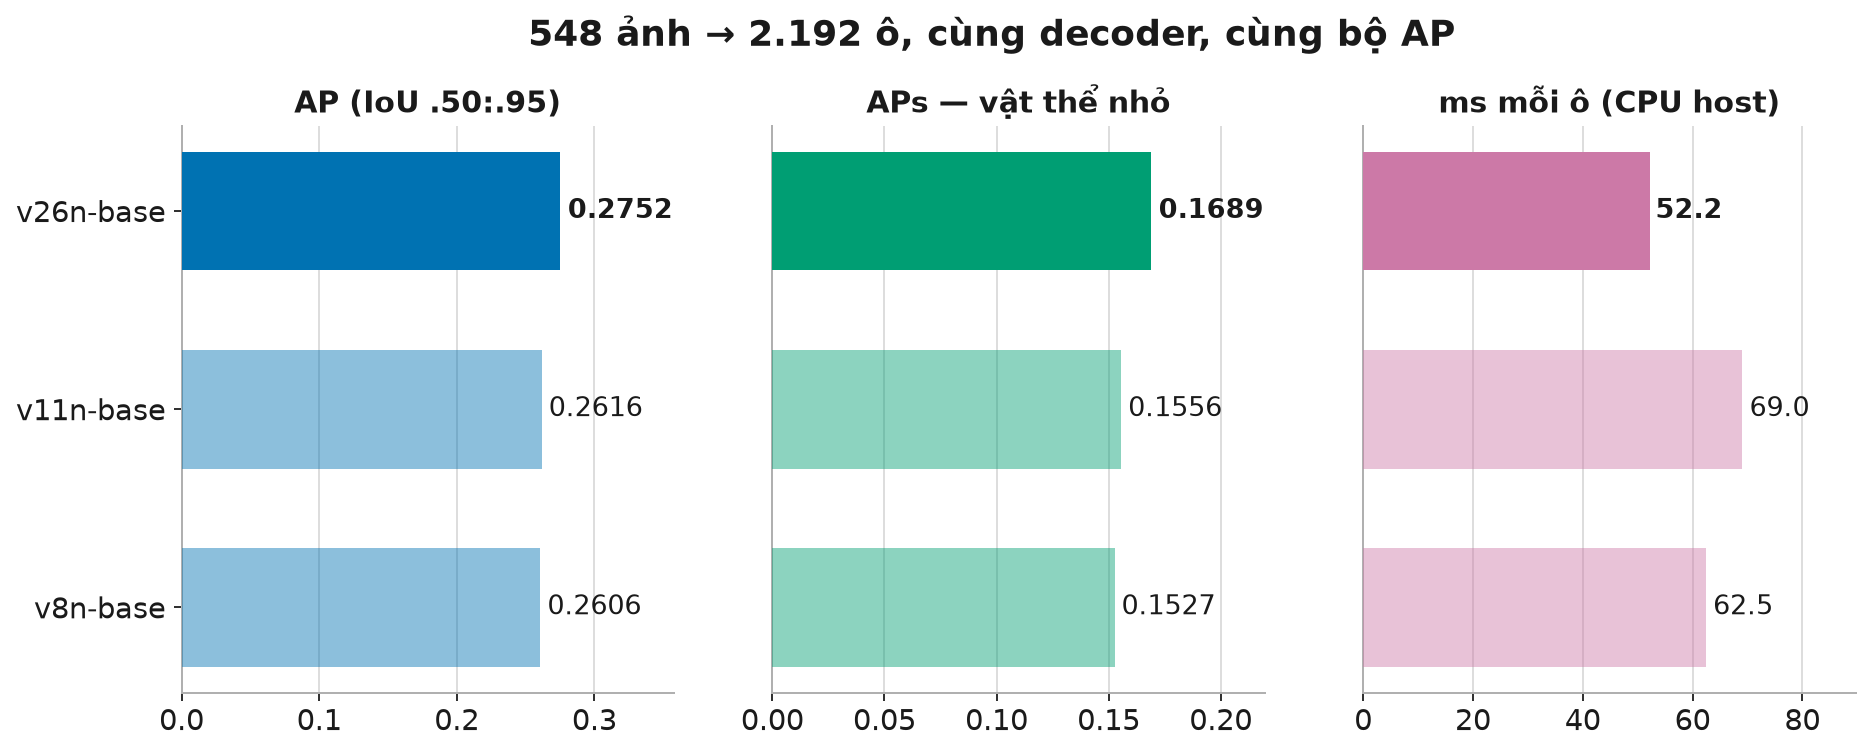
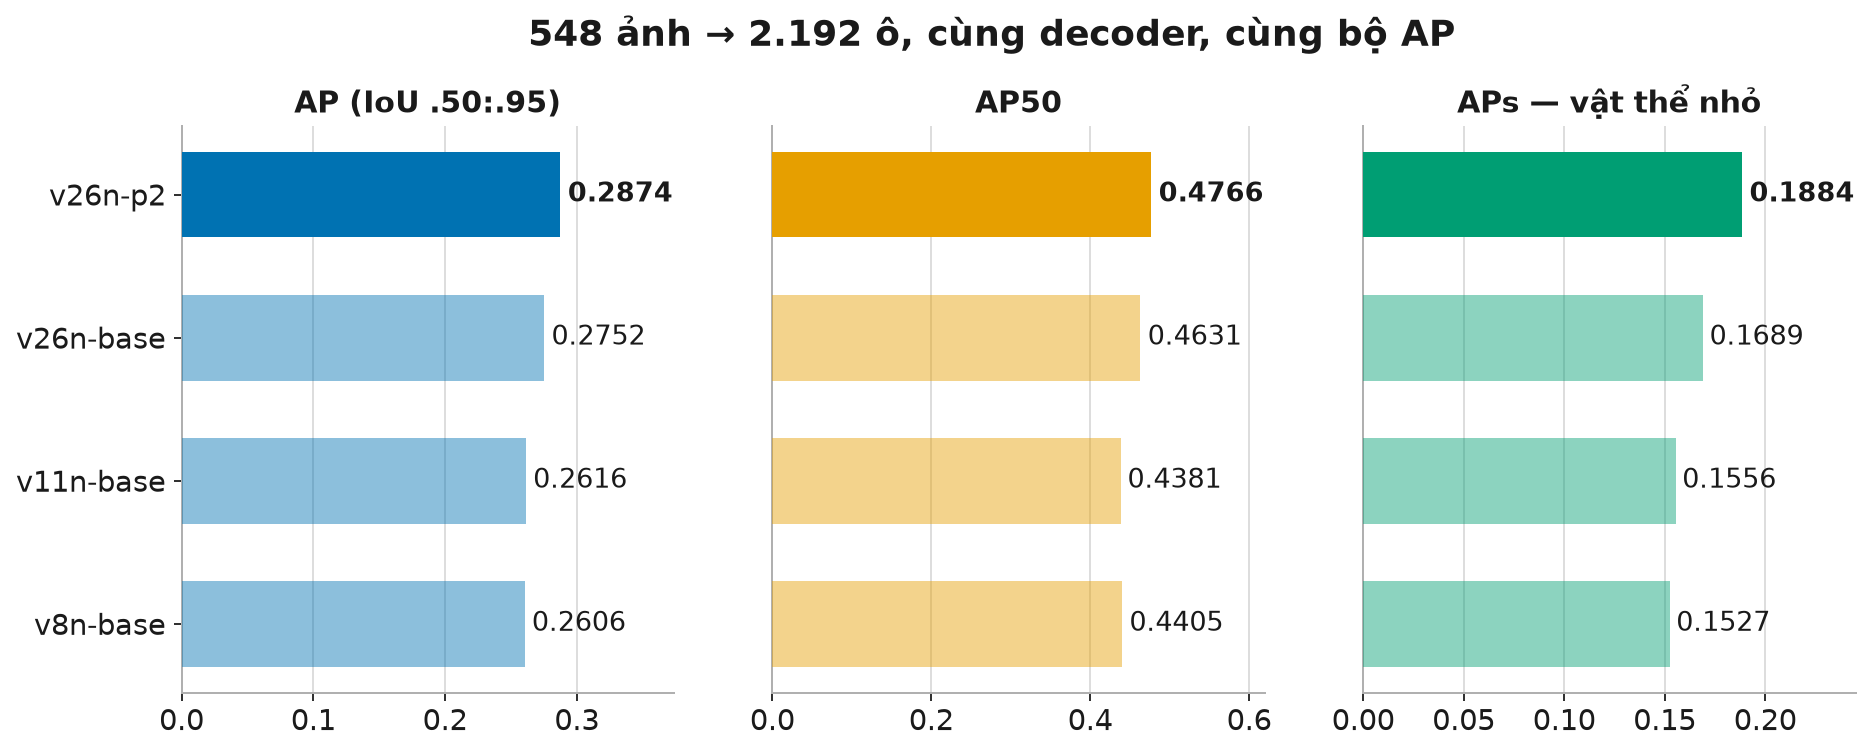
Four-way accuracy comparison: p2 wins every column, widest on small objects
548 val images -> 2192 tiles, one decoder, one AP implementation, ignore
regions cut per tile.

  model         AP      AP50    AP75    APs     APm
  v26n-p2     0.2874  0.4766  0.2925  0.1884  0.3750
  v26n-base   0.2752  0.4631  0.2763  0.1689  0.3713
  v11n-base   0.2616  0.4381  0.2627  0.1556  0.3667
  v8n-base    0.2606  0.4405  0.2597  0.1527  0.3702

p2's margin is largest exactly where its stride-4 branch predicts: +23.4% APs
against +10.3% AP overall. A result that lands on the metric the mechanism
points at is worth more than one that lands everywhere.

Host ms/tile is dropped from the table. It is still in the CSV, but it moved
25% between two runs of the same model on the same machine (v26n-base 52.2 ->
39.1), so it cannot carry a latency claim. The new trade-off figure therefore
puts locally-measured AP on one axis and AI Hub's QCS8550 w8a16 latency on the
other, and says so in the caption.

The decision the table actually poses: p2 buys +10.3% AP and +23.4% APs for
2.1x the NPU time (8.531 vs 3.984 ms). Nothing here says which side of that is
right -- that depends on the frame rate the aircraft needs, which is §6.

diff --git a/4-bench/make_figures.py b/4-bench/make_figures.py
@@ -185,25 +185,26 @@ def fig_e2e_matrix(root, out):
 # --------------------------------------------------------------------------- #
 def fig_models(root, out):
     """Three architectures on one tiled split, one decoder, one AP code."""
-    rs = rows(os.path.join(root, "results", "tiled_val_full.csv"))
+    rs = rows(os.path.join(root, "results", "tiled_val_4models.csv"))
     name = {"v26n-base-encoder-md500.onnx": "v26n-base",
             "v11n-base-encoder.onnx": "v11n-base",
-            "v8n-base-encoder.onnx": "v8n-base"}
+            "v8n-base-encoder.onnx": "v8n-base",
+            "v26n-p2-encoder.onnx": "v26n-p2"}
     rs = sorted(rs, key=lambda r: -num(r["AP"]))
     labels = [name.get(r["model"], r["model"]) for r in rs]
 
     fig, axes = plt.subplots(1, 3, figsize=(13.5, 4.6))
     specs = [("AP", "AP (IoU .50:.95)", BLUE),
-             ("APs", "APs — vật thể nhỏ", GREEN),
-             ("ms_per_tile", "ms mỗi ô (CPU host)", PURPLE)]
+             ("AP50", "AP50", ORANGE),
+             ("APs", "APs — vật thể nhỏ", GREEN)]
     for k, (ax, (key, title, col)) in enumerate(zip(axes, specs)):
         vals = [num(r[key]) for r in rs]
         bars = ax.barh(labels[::-1], vals[::-1], color=col, height=.6, zorder=3)
-        best = max(vals) if key != "ms_per_tile" else min(vals)
+        best = max(vals)
         for b, v in zip(bars, vals[::-1]):
             b.set_alpha(1.0 if v == best else .45)
             ax.text(v * 1.02, b.get_y() + b.get_height() / 2,
-                    f"{v:.4f}" if key != "ms_per_tile" else f"{v:.1f}",
+                    f"{v:.4f}",
                     va="center", fontsize=12,
                     fontweight="bold" if v == best else "normal")
         ax.set_title(title, fontsize=13.5)
@@ -302,6 +303,62 @@ def fig_power(root, out):
 
 
 # --------------------------------------------------------------------------- #
+def fig_tradeoff(root, out):
+    """Accuracy against NPU latency, which is the decision the project has to make.
+
+    Both axes come from different machines on purpose: AP is measured here on
+    one tiled split, latency is measured on QCS8550. The host ms/tile column
+    exists in the AP csv and is *not* used -- it moved 25% between runs of the
+    same model, so it cannot carry a latency claim.
+    """
+    nm = {"v26n-p2-encoder.onnx": "v26n-p2",
+          "v26n-base-encoder-md500.onnx": "v26n-base",
+          "v11n-base-encoder.onnx": "v11n-base",
+          "v8n-base-encoder.onnx": "v8n-base"}
+    # w8a16, the only precision that survives on every model (docs/results)
+    lat = {"v8n-base": 3.984, "v11n-base": 4.710,
+           "v26n-base": 4.935, "v26n-p2": 8.531}
+    rs = rows(os.path.join(root, "results", "tiled_val_4models.csv"))
+
+    fig, (a1, a2) = plt.subplots(1, 2, figsize=(13.2, 5.2))
+    cols = {"v8n-base": BLUE, "v11n-base": ORANGE,
+            "v26n-base": GREEN, "v26n-p2": PURPLE}
+    for ax, key, title in ((a1, "AP", "AP (IoU .50:.95)"),
+                           (a2, "APs", "APs — vật thể nhỏ")):
+        for r in rs:
+            n = nm.get(r["model"], r["model"])
+            x, y = lat[n], num(r[key])
+            ax.scatter(x, y, s=260, color=cols[n], zorder=3,
+                       edgecolor="white", linewidth=2)
+            # v8n va v11n gan nhau ca hai truc, nhan mac dinh se de len nhau
+            dx, dy, ha = (0, 16, "center")
+            if n == "v8n-base":
+                dx, dy, ha = (-14, -4, "right")
+            elif n == "v11n-base":
+                dx, dy, ha = (14, -4, "left")
+            ax.annotate(n, (x, y), xytext=(dx, dy), textcoords="offset points",
+                        ha=ha, va="center" if dy < 8 else "bottom",
+                        fontsize=12, fontweight="bold")
+        ys = [num(r[key]) for r in rs]
+        pad = (max(ys) - min(ys)) * .45 or .01
+        ax.set_ylim(min(ys) - pad, max(ys) + pad * 1.5)
+        ax.set_xlim(2.4, 9.8)
+        ax.set_xlabel("Latency NPU w8a16 (ms/ô)")
+        ax.set_title(title, fontsize=14)
+
+    a1.set_ylabel("AP")
+    fig.suptitle("Đánh đổi: p2 chính xác nhất, và chậm nhất 2.1×",
+                 fontsize=16, fontweight="bold", y=1.0)
+    fig.text(0.5, -0.03, "Trục dọc đo tại chỗ trên 2.192 ô; trục ngang đo trên "
+             "QCS8550 qua AI Hub. Cột ms/ô trên host bị bỏ đi vì nó lệch 25% "
+             "giữa hai lần chạy cùng một model.",
+             ha="center", fontsize=11, color=GREY)
+    p = os.path.join(out, "fig_tradeoff.png")
+    fig.savefig(p); plt.close(fig)
+    return p
+
+
+# --------------------------------------------------------------------------- #
 def fig_budget(root, out):
     """Where a frame's time actually goes once the board is included.
 
@@ -357,7 +414,7 @@ def main() -> int:
     os.makedirs(out, exist_ok=True)
 
     for fn in (fig_quant_trap, fig_e2e_matrix, fig_models, fig_tiling,
-               fig_power, fig_budget):
+               fig_power, fig_budget, fig_tradeoff):
         try:
             p = fn(args.root, out)
             print(f"[ok] {os.path.relpath(p, args.root)}"

diff --git a/docs/EDGE_BENCHMARK.md b/docs/EDGE_BENCHMARK.md
@@ -46,21 +46,30 @@ twice here, so every model was re-scored locally on one tiled split.
 548 val images → 2 192 tiles (2×2, 20% overlap), conf 0.001, IoU 0.65,
 maxDets 500, ignore regions cut to the tile and masked.
 
-| model | AP | AP50 | APs | ms/tile (host CPU) |
-|---|---:|---:|---:|---:|
-| **v26n-base** | **0.2752** | **0.4631** | **0.1689** | **52.2** |
-| v11n-base | 0.2616 | 0.4381 | 0.1556 | 69.0 |
-| v8n-base | 0.2606 | 0.4405 | 0.1527 | 62.5 |
+| model | AP | AP50 | AP75 | APs | APm |
+|---|---:|---:|---:|---:|---:|
+| **v26n-p2** | **0.2874** | **0.4766** | **0.2925** | **0.1884** | **0.3750** |
+| v26n-base | 0.2752 | 0.4631 | 0.2763 | 0.1689 | 0.3713 |
+| v11n-base | 0.2616 | 0.4381 | 0.2627 | 0.1556 | 0.3667 |
+| v8n-base | 0.2606 | 0.4405 | 0.2597 | 0.1527 | 0.3702 |
 
-v26n-base wins every column: +5.6% AP and +10.6% APs over v8n, at 16% less
-host time — that is the NMS it does not run.
+**p2 wins every column**, and by the largest margin on APs: +23.4% over v8n
+against +10.3% on AP overall. The stride-4 branch does what it exists to do,
+and the gap widens exactly where it should — a result that lands on the metric
+the mechanism predicts is worth more than a result that lands everywhere.
 
-**v8n and v11n are not distinguishable here.** They differ by 0.001 AP, and the
+**v8n and v11n are not distinguishable.** They differ by 0.001 AP, and the
 order is *reversed* against the figures their own Colab runs reported (0.2724
-vs 0.2715 there). The reversal is the evidence: a difference that flips when
-you re-measure it is not a difference.
+vs 0.2715 there). A difference that flips when you re-measure it is not a
+difference.
 
-`docs/results/tiled_val_3models.csv`
+Host `ms/tile` is deliberately absent from this table. It is in the CSV, and it
+moved 25% between two runs of the same model on the same machine (v26n-base
+52.2 → 39.1), so it cannot carry a latency claim. Latency comes from §4.
+
+`docs/results/tiled_val_4models.csv`
+
+![accuracy vs latency](img/fig_tradeoff.png)
 
 ---
 
@@ -279,6 +288,10 @@ exposes three power sources and none of them is instrumentation.
 - **Tiled inference on the board.** §7 blocks the NPU path; the CPU-side cost
   in §5 is measured, the NPU term is not.
 - **Sustained-throttle throughput** (§8).
+- **The four-way comparison at equal training budget.** All four ran 30 epochs
+  (45 for p2, which starts from 40% transferred weights and needs them), but
+  three of the four hit the epoch cap with their best epoch at the end, so
+  these are 30-epoch numbers rather than architecture ceilings.
 - **Energy**, and it will stay unmeasured on this board (§9).
 
 ## Reproducing
